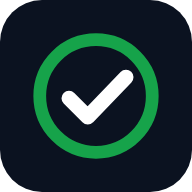
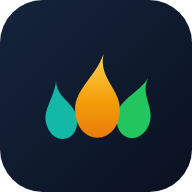
Neues App-Zeichen: drei Flammen
Der Haken von vorher sagte nichts ueber die App. Jetzt stehen drei Flammen
nebeneinander, unterschiedlich gross und leicht geneigt: ein Lagerfeuer
fuer die Gruppe, und zugleich die Flamme, die in der App fuer die Serie
steht. Teal, Gruen und ein warmer Verlauf in der Mitte.

Die Silhouette bleibt bei 48 px lesbar; die maskable Fassung sitzt mit
genug Luft im Zuschnitt. Das Zeichen steht jetzt auch in der Kopfzeile
der App statt des gruenen Quadrats.

Claude-Session: https://claude.ai/code/session_01YXBqBhBFRKzH3LhRUQDypT

diff --git a/public/index.html b/public/index.html
@@ -29,7 +29,7 @@ body{
 main{max-width:620px;margin:0 auto;padding:0 14px}
 header{display:flex;align-items:center;gap:10px;margin:4px 0 14px}
 header h1{font-size:19px;margin:0;letter-spacing:-.01em}
-header .dot{width:26px;height:26px;border-radius:9px;background:var(--acc);display:grid;place-items:center;color:#fff;font-size:14px;font-weight:700}
+header .dot{width:30px;height:30px;border-radius:9px;display:block}
 .card{background:var(--card);border:1px solid var(--line);border-radius:16px;padding:14px;margin-bottom:12px}
 h2{margin:0 0 10px;font-size:12px;font-weight:700;color:var(--mut);text-transform:uppercase;letter-spacing:.07em}
 .big{font-size:34px;font-weight:800;letter-spacing:-.02em;line-height:1.1}
@@ -861,7 +861,7 @@ function render() {
   if (!D) return;
   const h = location.hash.slice(1);
   const page = views[h] ? h : "home";
-  $("#app").innerHTML = `<header><div class="dot">P</div><h1>Das Programm</h1></header>` + views[page]();
+  $("#app").innerHTML = `<header><img class="dot" src="/icon.svg" alt=""><h1>Das Programm</h1></header>` + views[page]();
   document.querySelectorAll("nav a").forEach(a => a.classList.toggle("on", a.hash === "#" + page));
   if (page === "add") { setKind(kind); paintCrew(); const w = $("#who"); if (w) w.onchange = paintCrew; }
   document.querySelectorAll("img[data-photo]").forEach(async img => {
